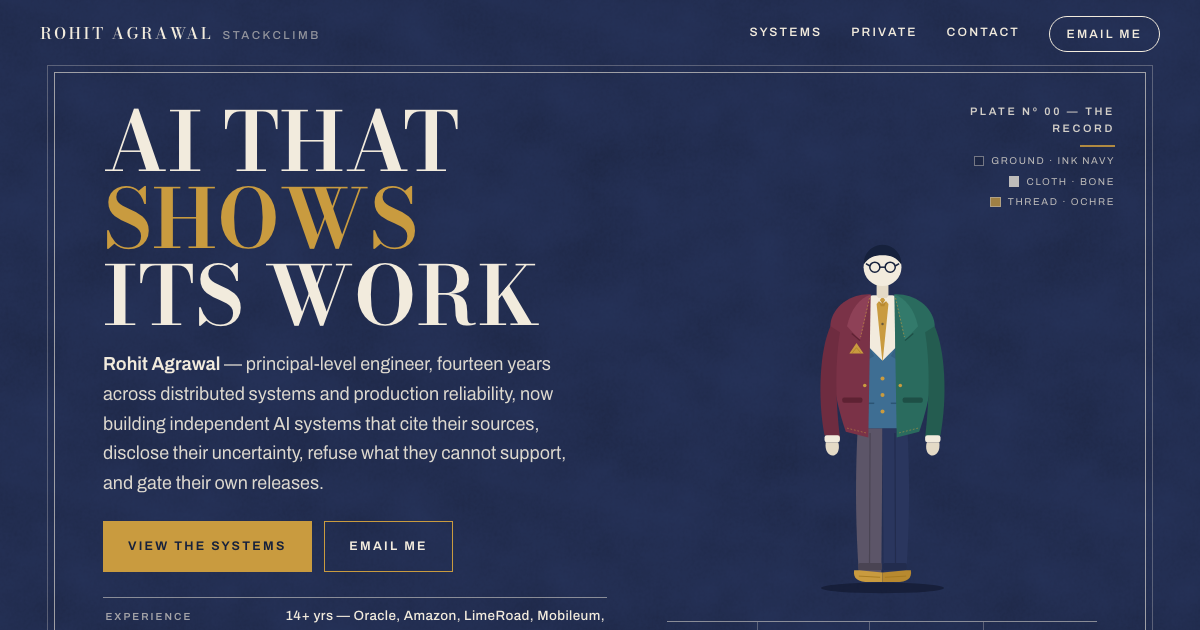
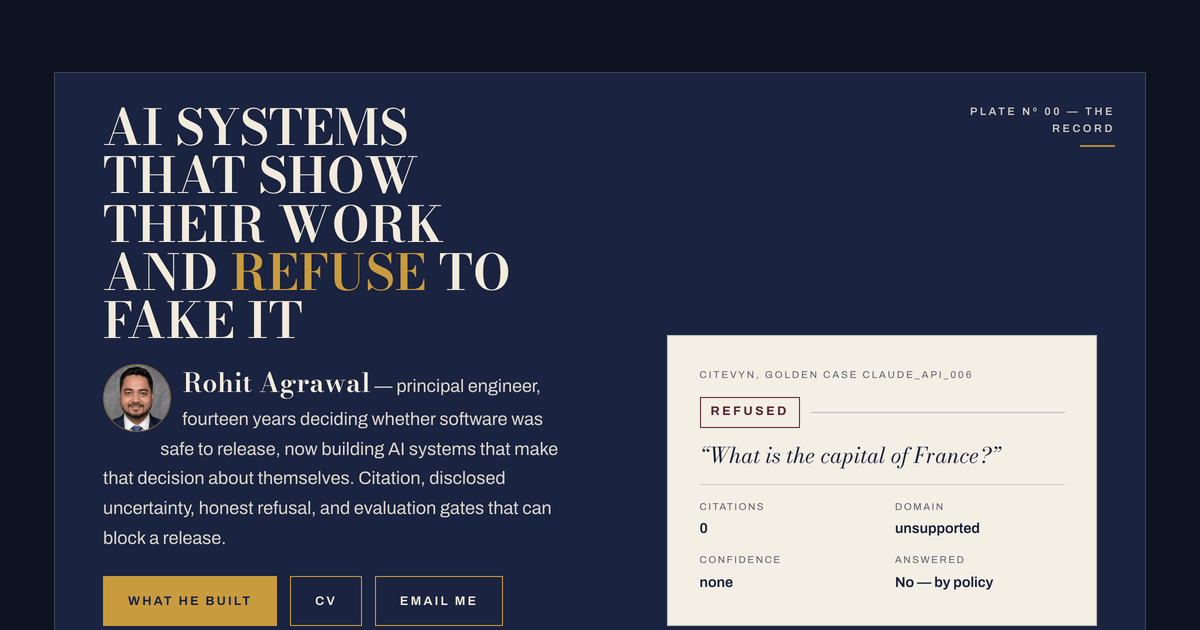
DEF-23, DEF-35: 394KB off the build, verified in the render (#17)
paint-grain: 166,280 -> 37,650 bytes as grayscale WebP q95. The source
pixels differ by at most 6/255; the RENDERED page - at opacity 0.5
under overlay blend, which is the only way anyone sees this file -
diffs 0 pixels against the PNG build, measured by intercepting the
request and comparing screenshots. The rename to .webp also sidesteps
DEF-24's immutable-cache trap for this file: a new URL cannot serve a
stale cache.

og.png: 337,549 -> 71,977 bytes, regenerated by screenshotting the
REAL hero at 1200x630@2x - current palette, D23 headline, avatar, and
the CiteVyn refusal card. The old card showed the pre-redesign palette
and a mannequin deleted on 08-08 (D19). A screenshot of the page
cannot drift from the design the way a hand-drawn card does. Name kept
stable because share crawlers hold the URL; DEF-24 narrows to og.png +
favicon.svg and stays open with that note.

Suite: 64 passed, 0 failed. PII gate 92 files clean.

diff --git a/src/styles/global.css b/src/styles/global.css
@@ -36,7 +36,7 @@ body::before {
   position: fixed;
   inset: 0;
   z-index: -1;
-  background-image: url('/paint-grain.png');
+  background-image: url('/paint-grain.webp');
   background-size: 480px;
   mix-blend-mode: overlay;
   opacity: 0.5;

diff --git a/docs/STATUS.md b/docs/STATUS.md
@@ -17,7 +17,7 @@ Last updated: 2026-08-09 (autonomous overnight session)
 | Branch | `main` — run `git rev-list --count HEAD` for the count; do not hard-code it here |
 | Site | Home page built — 7 plates, five record cards each quoting a named file at a named commit, ruled caption strips |
 | Deployed | **Manually, and it drifts.** `wrangler pages project list` reports `Git Provider: No` — nothing deploys on push; every deploy is a hand-run `wrangler pages deploy`. Measured 08-09 overnight: production was serving `7ec8c24` while `main` stood **six commits ahead**. Check with `npx wrangler pages deployment list --project-name stackclimb` and compare the CSS hash, never assume. `stackclimb.com` and `www` both serve HTTP 200 from Cloudflare Pages project `stackclimb`, production branch `main`, cert CN=stackclimb.com valid to 24 Oct 2026. Two CNAMEs added by the owner; the three Fly subdomains were verified unchanged before and after |
-| Tests | `npx playwright test` on `fix/qa-review-findings`: **18 pass, 0 fail** (08-08). The contrast gate is green for the first time. `tests/boundary-check.mjs` measures plate seams; run it with `--legacy` to watch it go red |
+| Tests | **64 pass, 0 fail, 2 skipped** (08-09 — the skips are the coarse-pointer gate on the desktop project, by design). Gates that fail loudly: plate seams (`boundary-check.mjs`), nav pixels incl. the open menu (`nav-contrast.mjs`), PII (`no-pii.mjs`), file budget (`file-budget.mjs`), nav reachability, palette ladder, focus visibility in pixels, chrome a11y, tap targets. The suite BUILDS before it tests (DEF-11) and refuses to reuse a stale server |
 | CI | **`.github/workflows/gates.yml`, added 08-09 — the first mechanical enforcement this repo has had.** Two jobs: secrets-and-PII (gitleaks with `fetch-depth: 0`, `.env` untracked, inbox untracked, `tests/no-pii.mjs`) and build-and-test (build **before** test per DEF-11, PII scan of the *build*, playwright, plate-seam contrast). Green on its first **push** run, `31276450288`, both jobs, 08-09. **That is a narrower claim than this row used to make** — see DEF-39. The workflow also triggers on `pull_request`, and the first time a PR actually ran it (`31278058454`) the secrets job failed in 8 seconds on a 403. A push run is not evidence the PR path works, and the PR path is the one branch protection gates on. Fixed 08-09 overnight. Branch protection still cannot require it until the repo is public or on Pro |
 
 ---
@@ -172,8 +172,8 @@ looked like it and is not. Worth watching, since the NarraTwin avatar will need 
 | DEF-19 | **Low — LATENT, downgraded from HIGH** | **Re-measured 08-09. Nothing is failing, because no CSP exists.** `curl -sSI https://stackclimb.com/` returns no `content-security-policy`; there is no `_headers` file on disk or in history. This is a defect that *arrives* the day someone adds a CSP, not one running in production. Its damage figure was also stale: "1.03:1" is DEF-30's number, and DEF-30 was fixed 08-08. Serving the built site under four policies (none · head-hash only · both blocked · both allowed) gives **byte-identical** boundary results — worst 7.56:1, AA ok, in all four. **The one true part survives:** a hand-maintained script hash goes stale on every edit. That trap now has nowhere to live — the inline script it referred to was deleted with DEF-6. When a CSP is added, use Astro's own `experimental.csp`, which derives hashes from the shipped bytes at build time; never hand-write them | Four policies served, `boundary-check.mjs` against each |
 | **DEF-20** | **Medium** | `npm audit` high is **`astro` itself** (direct dependency, 8 XSS advisories), not sharp/esbuild as first reported. Unreachable in this static build, but the fix is `5.18.2 → 7.2.0` — **two** majors | `npm audit --json` |
 | **DEF-22** | **HIGH** | **Render-blocking CSS is the real critical-path defect.** 18 KB raw / 3.7 KB brotli, and it gates font discovery. Inlining it takes mobile LCP **2.4s → 1.4s**, Lighthouse 98 → 100 | Lighthouse 13.4.1 + Playwright A/B |
-| **DEF-23** | **Medium** | `paint-grain.png` is **perfectly grayscale stored as 24-bit RGB** — three identical copies of one plane. Grayscale PNG saves 32% **pixel-identically**; WebP q95 saves 77% at max error 2.33/255 | Channel-spread check, rendered diff |
-| **DEF-24** | **Low** | `paint-grain.png`, `og.png`, `favicon.svg` ship **unhashed** from `/public` while CSS and fonts are content-hashed. With a long `immutable` cache, a grain change never propagates | Build output |
+| ~~DEF-23~~ | — | **FIXED 08-09.** `paint-grain.webp`, grayscale q95: 166,280 → **37,650 bytes**. Source-pixel max error 6/255; the RENDERED page — the claim that matters, at opacity 0.5 under overlay blend — diffs **0 pixels** against the PNG build, measured by intercepting the request and comparing screenshots. The rename also sidesteps DEF-24's immutable-cache trap for this file: a new URL cannot serve a stale cache | Rendered diff, 0/255 max error |
+| **DEF-24** | **Low — narrowed 08-09** | `og.png` and `favicon.svg` still ship unhashed from `/public`. The grain left the list by becoming `paint-grain.webp` (new URL). `og.png` deliberately keeps its stable name — share crawlers hold the URL — so IT is the file this defect now describes: a future og change needs either a cache purge or a versioned name plus updated `og:image` | Build output |
 | **DEF-21** | **Medium** | `scroll-behavior: smooth` (`global.css:18`) makes every fragment link a ~3-second animation. `?at=` is **not** vestigial — it sets `no-anim` for an instant jump. Migrating to `#` needs a settle wait or every deep-link screenshot captures mid-scroll | Synthesizer, timed |
 | ~~DEF-25~~ | — | **FIXED.** The SaafSaans plate claimed a "three-hour build" started at the event. Nothing in `saaf-saans` records a duration. The three commits on 18 July land 14:17, 14:49 and 15:21 — **inside** the event, which ran 09:00–17:30 IST. The first is titled "existing UI baseline"; the linked case study's timeline row reads "Before 18 Jul — Built for a hackathon as a 4-tab Streamlit app. Did not place." Copy now says the project was **entered** at the event as a four-tab Streamlit app that already existed | `git log` in `saaf-saans` (master); `docs/CASE-STUDY.md:32` |
 | ~~DEF-26~~ | — | **FIXED.** The same plate said "the certificate is valid and the address resolves". Half true. The name resolves (`66.241.125.120`) and TCP 443 accepts, but the server closes the connection without presenting a certificate. Copy now states only what a command returns | `nc -z 66.241.125.120 443` succeeds; `openssl s_client` → "unexpected eof while reading" during init |
@@ -186,7 +186,7 @@ looked like it and is not. Worth watching, since the NarraTwin avatar will need 
 | DEF-33 | Low | **The private plate still draws 3 placeholder rectangles.** Out of scope for the figure work, which covered the four project plates. The critique also reads its two olive slabs as headstones | `.figure rect` count, both viewports |
 | DEF-36 | **HIGH** | **The footer tells a recruiter the site is an exercise.** `Layout.astro:77` reads *"Built as a work sample — static Astro, self-hosted type, no trackers, no invented claims"*. All four clauses are the site talking about **itself** rather than about him: "work sample" reframes everything above it as a demo rather than a record; the stack and type-hosting are facts no recruiter needs; "no invented claims" is a claim about claims at the smallest type on the page. **This is the identical fault as D20** — the swatch tags deleted this morning for "the site talking about itself rather than about him" — and it sat twenty lines away in a file I edited the same day | Owner found it, 08-09 |
 | ~~DEF-34~~ | — | **FIXED 08-09.** The plate is renamed `#citevyn`, and `Systems` plus the skip link now point at `#overview` — a plural label reaching the contact sheet rather than one project. *Was:* **The nav label and the anchor it points at disagree.** `Systems` and the skip link `Skip to the systems` both target `#work`, and `work` is **CiteVyn's plate id** — so a plural label lands the visitor on one system. `work` is also the odd id out: every other plate is named for its project (`quorum`, `saafsaans`, `narratwin`). Leftover from when `work` was a section. Fixed by D28: nav becomes `WORK → #overview` and the plate is renamed `#citevyn` | Owner found it, 08-09 |
-| DEF-35 | Low | **`og.png` has not been regenerated since the redesign.** 1200×630, still showing the pre-value-ladder palette and the deleted mannequin. Anyone sharing a link previews a site that no longer exists | `file public/og.png`, 08-09 |
+| ~~DEF-35~~ | — | **FIXED 08-09.** Regenerated by screenshotting the REAL hero at 1200×630 @2x — current palette, headline, avatar and the CiteVyn refusal card; nothing drawn by hand, so it cannot drift from the design the way a hand-made card does. 337,549 → **71,977 bytes**, which also retires the "largest file in the build" note: the largest is now this same file at a fifth of its old weight | Screenshot pipeline in the PR |
 | DEF-40 | Medium | **Every URL returned the home page with HTTP 200 — no 404, no robots.txt, no sitemap.** Cause was a single missing file: Cloudflare Pages treats a build with no top-level `404.html` as a single-page app. There was no `_redirects` and no catch-all rule. **Fixed 08-09** — `src/pages/404.astro`, `public/robots.txt`, `@astrojs/sitemap`, and `build.format: 'file'` decided before `/approach` and `/cv` exist because it fixes how every internal link must be written. Verified against **Cloudflare's own asset router**, both directions: with `404.html` a missing path returns 404 and real routes still serve; remove it and the same path returns 200 with the identical byte count as `/` | `wrangler pages dev`, before and after |
 | DEF-41 | **HIGH — fixed the day it appeared** | **Every nav link was a bare fragment, so the menu silently did nothing on any page but the home page.** `href="#work"`, `href="#contact"`. With one page that worked; the moment `/cv` shipped, "Systems" and "Contact" pointed at ids that are not on that page — no navigation, no console error, nothing red. **Every existing gate passed them**: they are present, visible, focusable and correctly labelled, and no check asked whether a link *arrives*. Same lesson as DEF-28's cross-model finding — `count()` proves existence, never reachability. Fixed to root-relative, and held by `tests/links.spec.js` | Mutation: revert to `#work` and it reports *"no #work on /cv"* while `/` still passes |
 | DEF-8 | **Medium — fixed for `/cv`, open elsewhere** | Six of seven plates print blank, bone on white. **The one page that is meant to be printed no longer does.** `src/styles/cv.css` inverts to ink on paper, resolves each link to its URL in the margin, avoids `print-color-adjust` (forcing the dark ground onto paper burns toner and reads worse), and hides `body::before` — the fixed paint-grain layer printed as grey mottling across every sheet, found by looking at a print proof rather than by any check. The home page is still unfixed | Playwright `emulateMedia({media:'print'})` proof, before and after |
